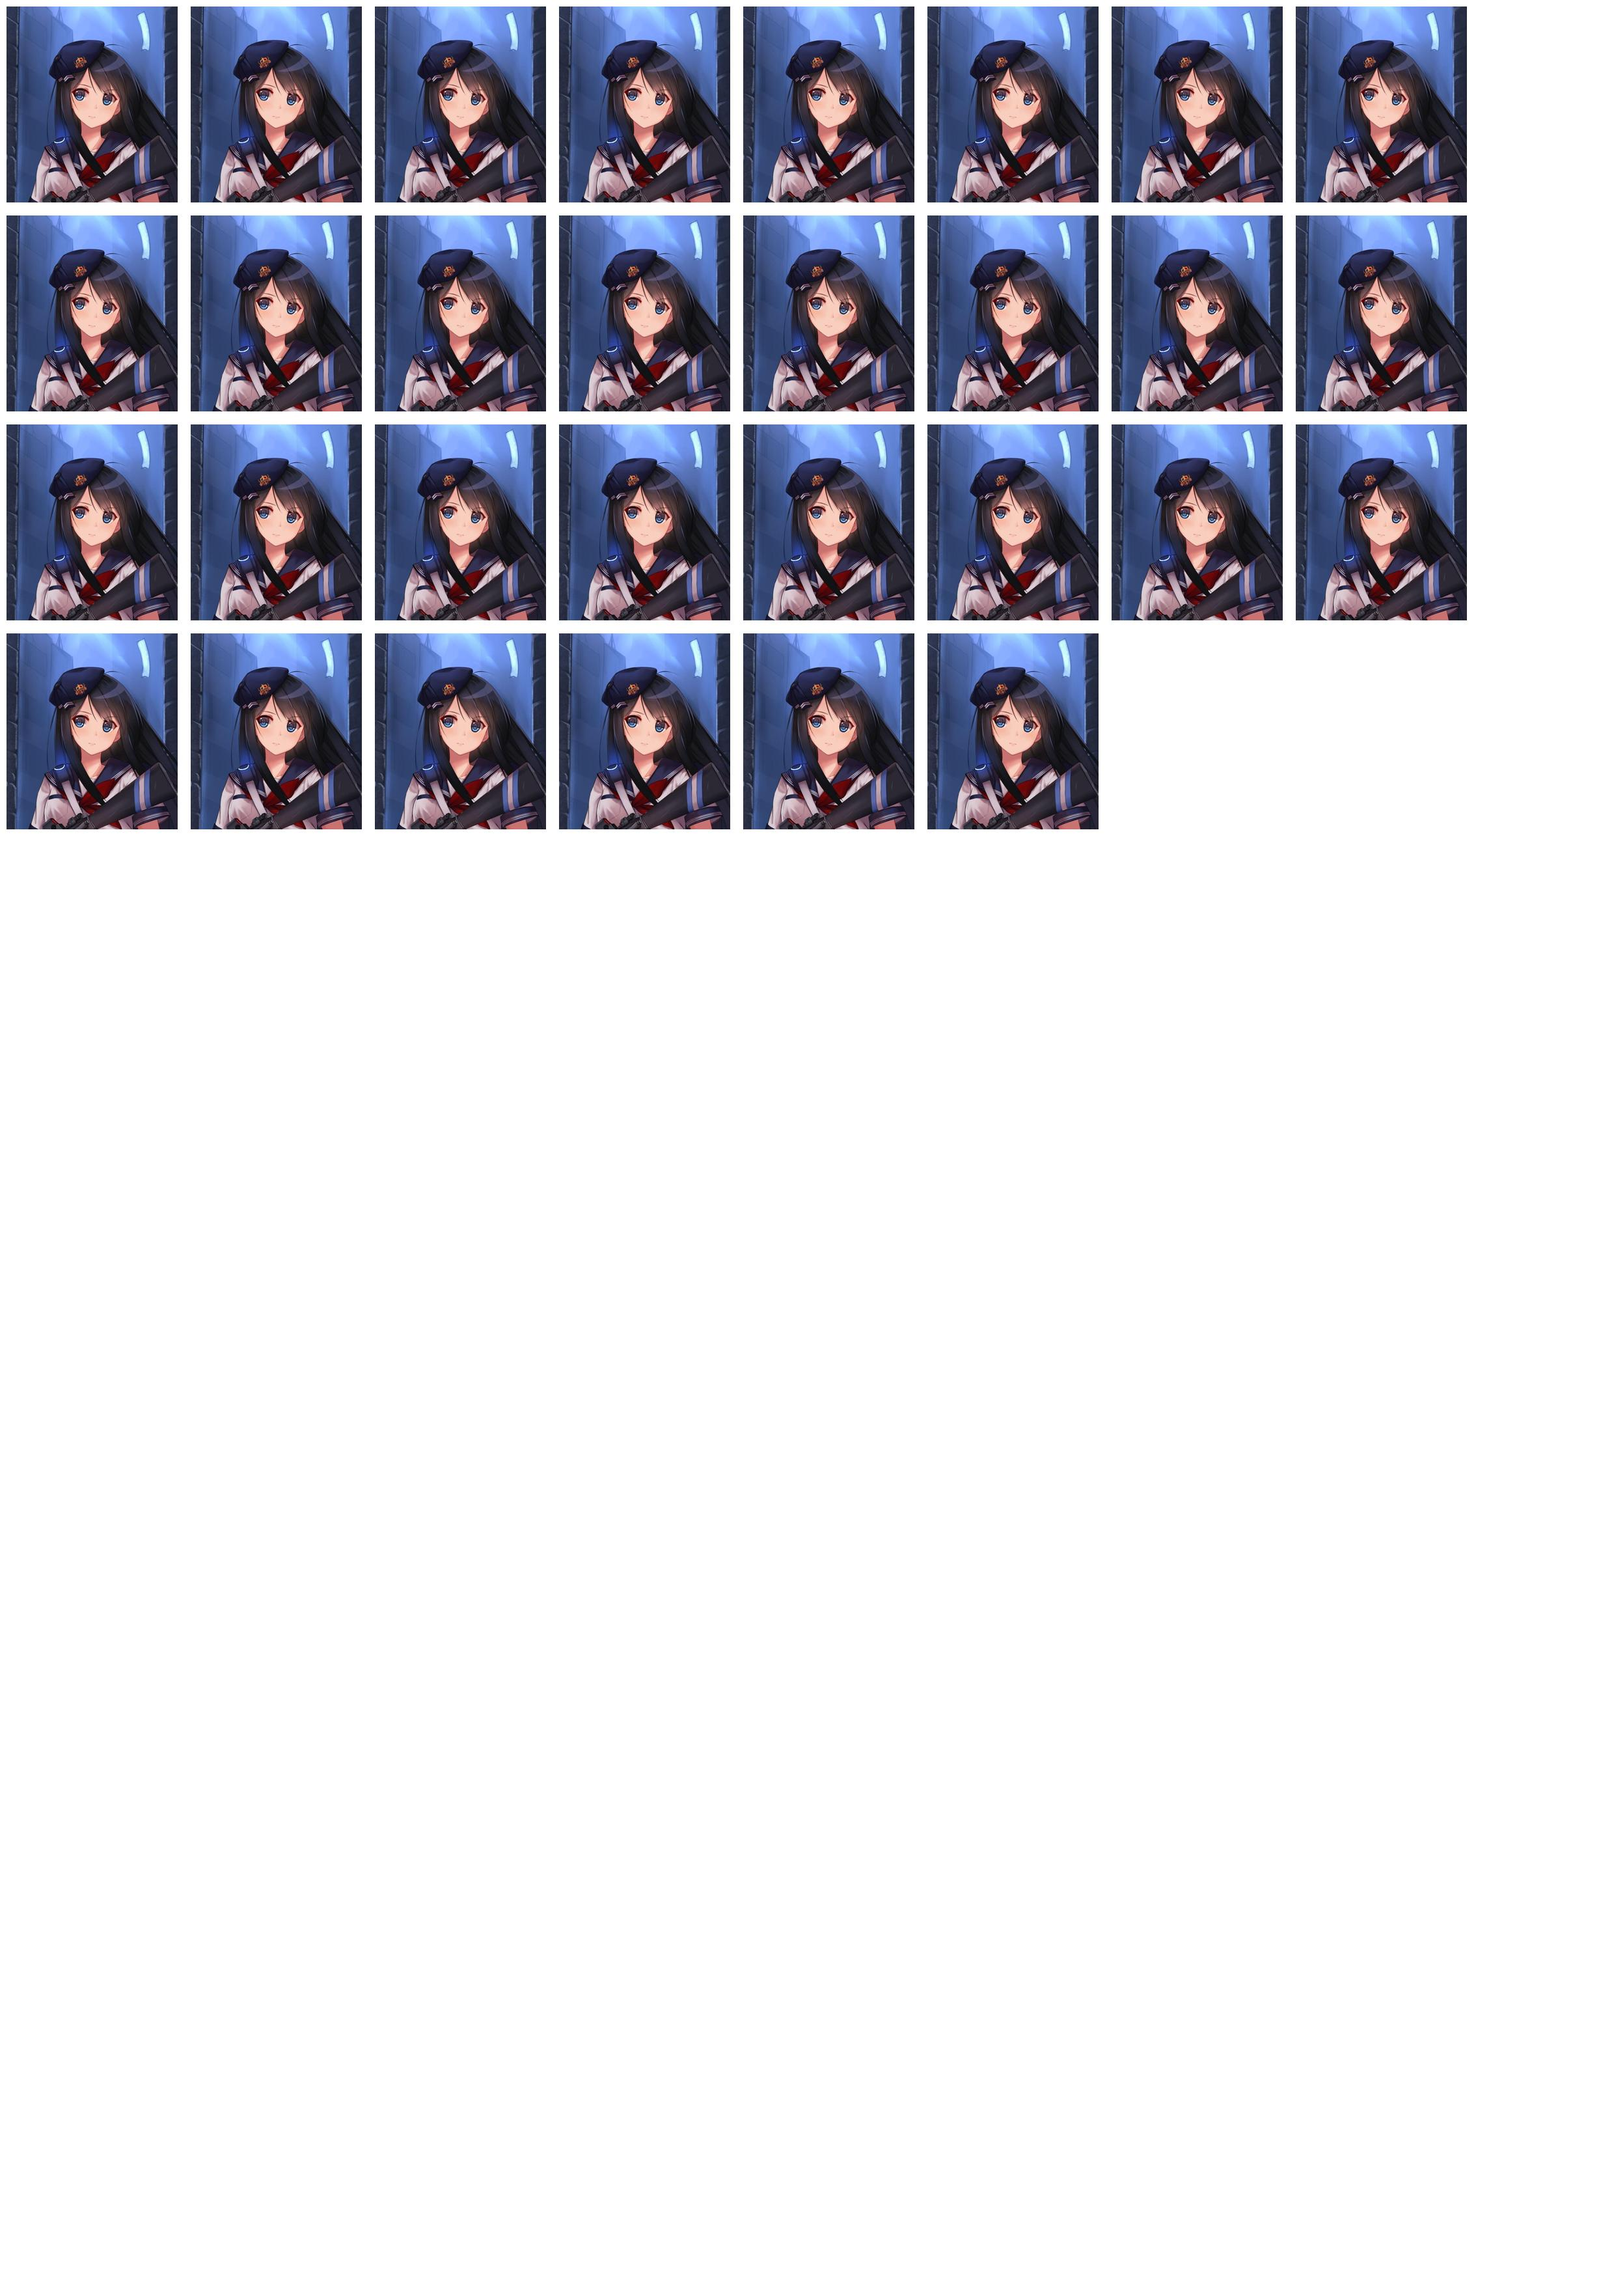
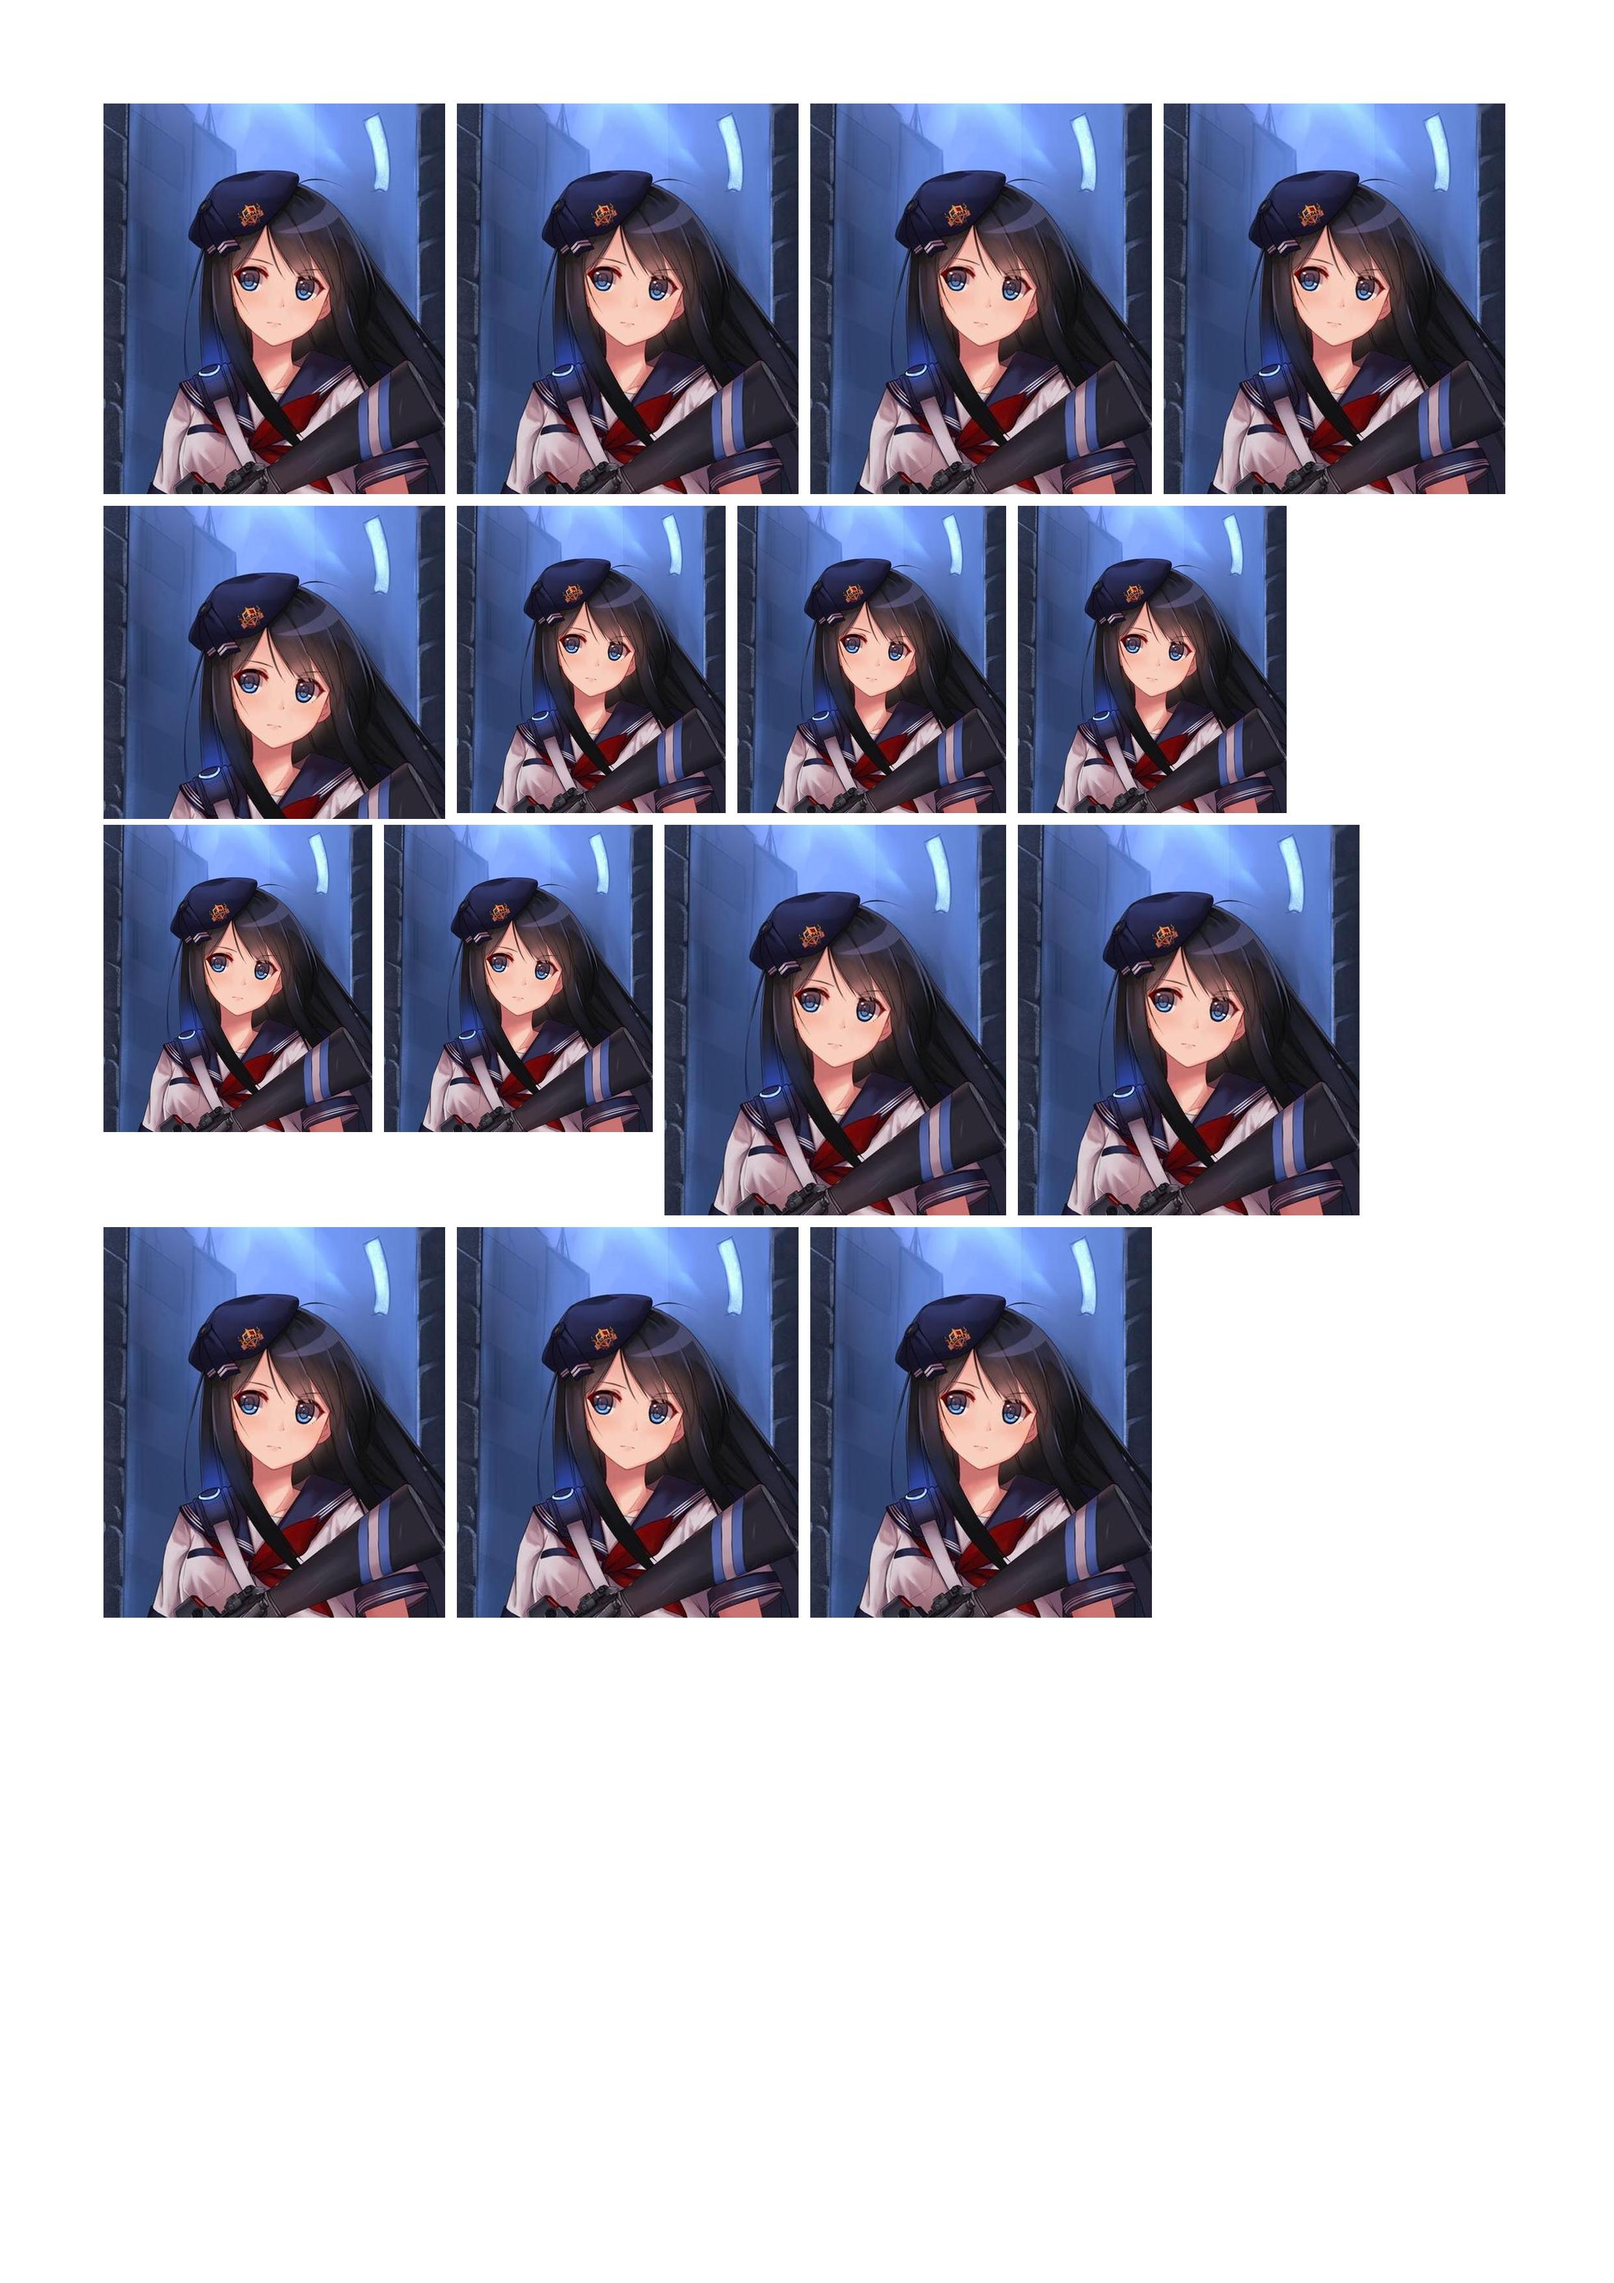
Resizing Id photo and make a4 printable grid  Changes to be committed: 	modified:   img_edit/demo_grid_a4.jpg 	modified:   img_edit/demo_resized.jpg 	modified:   img_edit/img_resize.py 	modified:   img_edit/imgrid_photo.py 	modified:   img_edit/print_canvas_size.py

diff --git a/img_edit/print_canvas_size.py b/img_edit/print_canvas_size.py
@@ -1,23 +1,12 @@
 """
-   Inches = Pixels / PPI
-   Pixels = Inches × PPI
-   Inches = Centimeters / 2.54
-   1 cm = 0.393701 inches
-   1 inch = 25.4 mm
-   Centimeters = Inches × 2.54
-   Centimeters = (Pixels / PPI) × 2.54
-   Pixels = (Centimeters / 2.54) × PPI
-
-A4 paper size is 210 x 297 mm.
-
-Width: 210 mm / 25.4 mm/inch ≈ 8.27 inches
-Height: 297 mm / 25.4 mm/inch ≈ 11.69 inches
-Width in pixels: 8.27 inches * 96 PPI ≈ 796 pixels
-Height in pixels: 11.69 inches * 96 PPI ≈ 1120 pixels
-
-Therefore, the A4 paper size in inches is approximately 8.27 x 11.69 inches, and in pixels (assuming 96 PPI) it
- would be approximately 796 x 1120 pixels.
-
+Inches = Pixels / PPI
+Pixels = Inches × PPI
+Inches = Centimeters / 2.54
+1 cm = 0.393701 inches
+1 inch = 25.4 mm
+Centimeters = Inches × 2.54
+Centimeters = (Pixels / PPI) × 2.54
+Pixels = (Centimeters / 2.54) × PPI
 """
 
 
@@ -29,7 +18,15 @@ def inches_to_pixels(inches, ppi=96):
     return int(inches * ppi)
 
 
-def create_a4_canvas(ppi):
+def getsize_a4_canvas(ppi):
+    """A4 paper size is 210 x 297 mm.
+        - Width: 210 mm / 25.4 mm/inch ≈ 8.27 inches
+        - Height: 297 mm / 25.4 mm/inch ≈ 11.69 inches
+        - Width in pixels: 8.27 inches * 96 PPI ≈ 796 pixels
+        - Height in pixels: 11.69 inches * 96 PPI ≈ 1120 pixels
+
+    Therefore, the A4 paper size in inches is approximately 8.27 x 11.69 inches, and in pixels (assuming 96 PPI) it would be approximately 796 x 1120 pixels.
+    """
     # A4 paper size in mm
     width_mm = 210
     height_mm = 297
@@ -48,3 +45,59 @@ def create_a4_canvas(ppi):
     print(f"Width: {width_pixels} pixels")
     print(f"Height: {height_pixels} pixels")
     return (width_pixels, height_pixels)
+
+
+def getsize_passport_2x2_inch(ppi):
+    """Indian Passport Photo
+    - Size of photo: 2 x 2 inch, 35 x 45 mm or 35 x 35 mm (5 x 5 cm, 3.5 x 4.5 cm, 3.5 x 3.5 cm).
+    - Color of background: white or off-white.
+    - The model has to look towards the camera. Tilted head is not allowed.
+    - Profile or three quarter photo is not allowed.
+    """
+    return (
+        inches_to_pixels(2, ppi),
+        inches_to_pixels(2, ppi),
+    )
+
+
+def getsize_oci_passport_35x35_mm(ppi):
+    """Indian OCI (Overseas Citizenship of India).
+    - Size of photo: 35x35 mm. (3.5 x 3.5 cm)
+    - Two ID photos must be enclosed for OCI application.
+    - Color of background: white is not allowed, usually light blue is used.
+    """
+    return (
+        inches_to_pixels(mm_to_inches(35), ppi),
+        inches_to_pixels(mm_to_inches(35), ppi),
+    )
+
+
+def getsize_visa_35x45_mm(ppi):
+    """Indian Visa Photo
+    - Size of photo: 3.5 x 4.5 cm.
+    - Color of background: white or light coloured.
+    """
+    return (
+        inches_to_pixels(mm_to_inches(35), ppi),
+        inches_to_pixels(mm_to_inches(45), ppi),
+    )
+
+
+def getsize_pan_25x35_mm(ppi):
+    """Indian PAN Card Photo
+    - Size of photo: 2.5 x 3.5 cm.
+    """
+    return (
+        inches_to_pixels(mm_to_inches(25), ppi),
+        inches_to_pixels(mm_to_inches(35), ppi),
+    )
+
+
+def getsize_stamp_20x25_mm(ppi):
+    """Indian Stamp Size Photo photo's size
+    - Size of Photo: 2 x 2.5 cm.
+    """
+    return (
+        inches_to_pixels(mm_to_inches(20), ppi),
+        inches_to_pixels(mm_to_inches(25), ppi),
+    )

diff --git a/img_edit/imgrid_photo.py b/img_edit/imgrid_photo.py
@@ -1,36 +1,61 @@
-from operator import index, indexOf
 from PIL import Image, ImageOps
-from img_resize import resize_half
-from print_canvas_size import create_a4_canvas
+from img_resize import resize_with
+from print_canvas_size import (
+    getsize_a4_canvas,
+    getsize_passport_2x2_inch,
+    getsize_visa_35x45_mm,
+    inches_to_pixels,
+)
 
 
-def create_grid(photo, no):
-    photo = ImageOps.expand(photo, 10, "white")
-    print(photo)
-    list_of_pics = [photo for _ in range(no)]
-    a4_size = create_a4_canvas(ppi=300)
+def border_photo(photo, border_inches=0.1, color="white"):
+    return ImageOps.expand(
+        photo,
+        inches_to_pixels(border_inches),
+        color,
+    )
+
+
+def create_grid(photos_list, margin=0.5, ppi=300):
+    print(photos_list[0])
+    a4_size = getsize_a4_canvas(ppi=ppi)
     canvas = Image.new("RGB", size=a4_size, color="white")
-
-    pos_x, pos_y = 0, 0
-    for pic in list_of_pics:
-        canvas.paste(pic, (int(pos_x), int(pos_y)))
-        pos_x += photo.width
-        if pos_x + photo.width >= a4_size[0]:
-            pos_x, pos_y = 0, pos_y + photo.height
-            if pos_y + photo.height >= a4_size[1]:
+    margin_start = inches_to_pixels(margin, ppi=ppi)
+    pos_x, pos_y = margin_start, margin_start
+    for pic in photos_list:
+        if pos_x + pic.width >= a4_size[0] - margin_start:
+            pos_x, pos_y = margin_start, pos_y + pic.height
+            if pos_y + pic.height >= a4_size[1] - margin_start:
                 print("less printed as page overflow")
                 break
-
+        canvas.paste(pic, (int(pos_x), int(pos_y)))
+        pos_x += pic.width
     canvas.show()
     return canvas
 
 
 def main():
     with Image.open("./demo_resized.jpg") as photo:
-        photo = resize_half(photo)
-        # photo.show()
+        photo = resize_with(
+            photo,
+            getsize_passport_2x2_inch(ppi=300),
+        )
+        photo2 = resize_with(
+            photo,
+            getsize_visa_35x45_mm(ppi=300),
+        )
+        photo = border_photo(photo)
+        photo2 = border_photo(photo2)
+        list_of_pics = (
+            [photo for _ in range(5)]
+            + [photo2 for _ in range(5)]
+            + [photo for _ in range(5)]
+        )
+        photo.show()
+        photo2.show()
         print(photo)
-        grid = create_grid(photo, no=30)
+        grid = create_grid(list_of_pics)
+        # grid.show()
         grid.save("demo_grid_a4.jpg")
 
 

diff --git a/img_edit/img_resize.py b/img_edit/img_resize.py
@@ -1,18 +1,69 @@
 from PIL import Image
+from print_canvas_size import (
+    getsize_oci_passport_35x35_mm,
+    getsize_pan_25x35_mm,
+    getsize_passport_2x2_inch,
+    getsize_stamp_20x25_mm,
+    getsize_visa_35x45_mm,
+)
 
 
-def resize_half(img):
-    print(img)
-    height, width = img.size
-    img = img.resize((int(height / 2), int(width / 2)))
-    print(img)
+def resize_equally_factor(img: Image.Image, resize_factor=0.5, rev=True):
+    print("original:", img)
+    width, height = img.size
+    if rev:
+        resize_factor = 1 - resize_factor
+    img = img.resize(
+        (int(width * resize_factor), int(height * resize_factor)),
+        Image.Resampling.LANCZOS,
+    )
+    print("resized:", img)
     return img
 
 
+def resize_with(img: Image.Image, template_size: tuple[float, float]):
+    to_width, to_height = template_size
+    scale_w = to_width / img.width
+    scale_h = to_height / img.height
+    print("scaling:", scale_w, scale_h)
+    scaling_factor = min(scale_w, scale_h)
+    img = resize_equally_factor(img, scaling_factor, rev=False)
+    return img
+
+
+def choose_size_options(PPI):
+    choice = int(
+        input("""   What to Convert? ...................
+        1) Indian Passport Photo: 2 x 2 inch.
+        2) Indian OCI (Overseas Citizenship of India): 3.5 x 3.5 cm.
+        3) Indian Visa Photo: 3.5 x 4.5 cm.
+        4) Indian PAN Card Photo: 2.5 x 3.5 cm.
+        5) Indian Stamp Size Photo: 2 x 2.5 cm.
+    Enter the format of your id photo:- """)
+    )
+    to_size = (0, 0)
+    match choice:
+        case 1:
+            to_size = getsize_passport_2x2_inch(PPI)
+        case 2:
+            to_size = getsize_oci_passport_35x35_mm(PPI)
+        case 3:
+            to_size = getsize_visa_35x45_mm(PPI)
+        case 4:
+            to_size = getsize_pan_25x35_mm(PPI)
+        case 5:
+            to_size = getsize_stamp_20x25_mm(PPI)
+    return to_size
+
+
 def main():
-    path = "./demo.jpg"
+    PPI = 300
+    path = "./demo_resized.jpg"
+
     with Image.open(path) as pic:
-        pic = resize_half(pic)
+        # pic = resize_equally_factor(pic)
+        pic = resize_with(pic, choose_size_options(PPI))
+        pic.show()
         pic.save("demo_resized.jpg")
 
 
